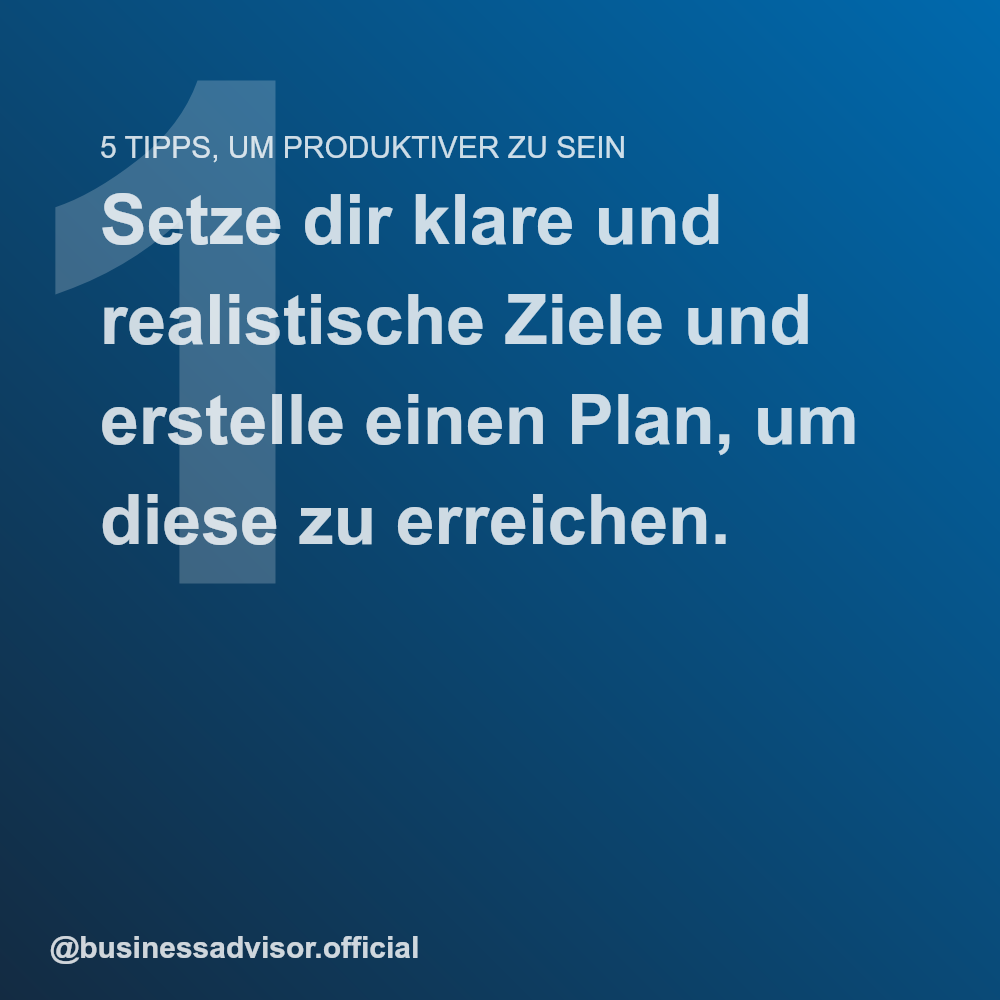
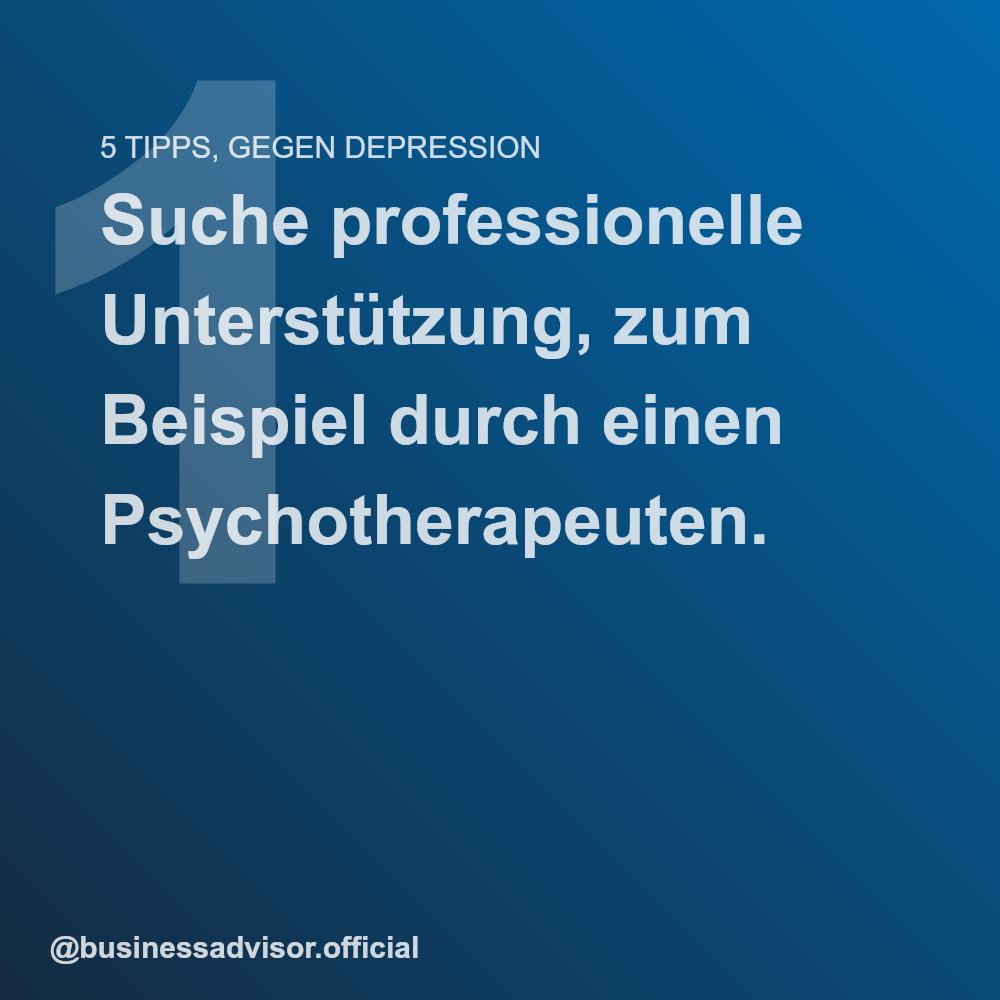
Updated Posts

diff --git a/src/tips.ts b/src/tips.ts
@@ -103,3 +103,56 @@ export const four = [
       'Bitte um Unterstützung oder Hilfe, wenn du sie brauchst, und arbeite in einem unterstützenden Umfeld.',
   },
 ];
+
+export const five = {
+  question: '5 Lebensweisheiten',
+  answers: [
+    'Verändere dich selbst, bevor du die Welt veränderst.',
+    'Das Glück liegt in der Einfachheit.',
+    'Werde niemals zu stolz, um Hilfe anzunehmen.',
+    'Halte dich an deine Werte und Prinzipien.',
+    'Sei immer dankbar für das, was du hast.',
+  ],
+};
+
+export const six = {
+  question: '5 Tipps, um besser zu werden',
+  answers: [
+    'Setze dir klare und erreichbare Ziele.',
+    'Höre auf andere Meinungen und lerne von anderen.',
+    'Finde einen Mentor oder jemanden, von dem du lernen kannst.',
+    'Nutze Rückschläge als Möglichkeiten zur Verbesserung.',
+    'Sei offen für neue Ideen und Herangehensweisen.',
+  ],
+};
+export const seven = {
+  question: '5 Tipps, für mehr Selbstbewusstsein',
+  answers: [
+    'Erkenne deine Stärken und Fähigkeiten und setze sie bewusst ein.',
+    'Setze dir realistische Ziele und arbeite daran, sie zu erreichen.',
+    'Lass dich nicht von negativen Gedanken oder Kommentaren anderer beeinflussen.',
+    'Rede in einer festen und klaren Stimme und halte Augenkontakt.',
+    'Vermeide Vergleiche mit anderen und akzeptiere deine Einzigartigkeit.',
+  ],
+};
+export const eight = {
+  question: '5 Tipps, gegen Depression',
+  answers: [
+    'Suche professionelle Unterstützung, zum Beispiel durch einen Psychotherapeuten.',
+    'Versuche, regelmäßig zu trainieren, da körperliche Bewegung die Stimmung verbessern kann.',
+    'Vermeide den Konsum von Alkohol und anderen Drogen, da diese die Symptome einer Depression verschlimmern können.',
+    'Versuche, regelmäßig Zeit mit Freunden und Familie zu verbringen und pflege soziale Kontakte.',
+    'Erstelle einen Tagesplan, um den Alltag besser zu bewältigen und vermeide es, wichtige Aufgaben ständig zu verschieben.',
+  ],
+};
+
+export const nine = {
+  question: '5 Tipps, um fokussiert zu bleiben',
+  answers: [
+    'Suche professionelle Unterstützung, zum Beispiel durch einen Psychotherapeuten.',
+    'Versuche, regelmäßig zu trainieren, da körperliche Bewegung die Stimmung verbessern kann.',
+    'Vermeide den Konsum von Alkohol und anderen Drogen, da diese die Symptome einer Depression verschlimmern können.',
+    'Versuche, regelmäßig Zeit mit Freunden und Familie zu verbringen und pflege soziale Kontakte.',
+    'Erstelle einen Tagesplan, um den Alltag besser zu bewältigen und vermeide es, wichtige Aufgaben ständig zu verschieben.',
+  ],
+};

diff --git a/src/main.ts b/src/main.ts
@@ -2,7 +2,7 @@ import { createCanvas } from '@napi-rs/canvas';
 import { NestFactory } from '@nestjs/core';
 import { AppModule } from './app.module';
 import * as fs from 'fs';
-import { four, three, two } from './tips';
+import { eight, five, four, seven, six, three, two } from './tips';
 
 const wrapText = function (ctx, text, x, y, maxWidth, lineHeight) {
   const words: string = text.split(' ');
@@ -98,10 +98,10 @@ const generateMainImage = async function (data: {
 };
 
 async function bootstrap() {
-  for (const [index, value] of four.entries()) {
+  for (const [index, value] of eight.answers.entries()) {
     generateMainImage({
-      title: value.title,
-      message: value.message,
+      title: eight.question,
+      message: value,
       number: index + 1,
       bottomText: '@businessadvisor.official',
       size: { width: 1000, height: 1000 },
